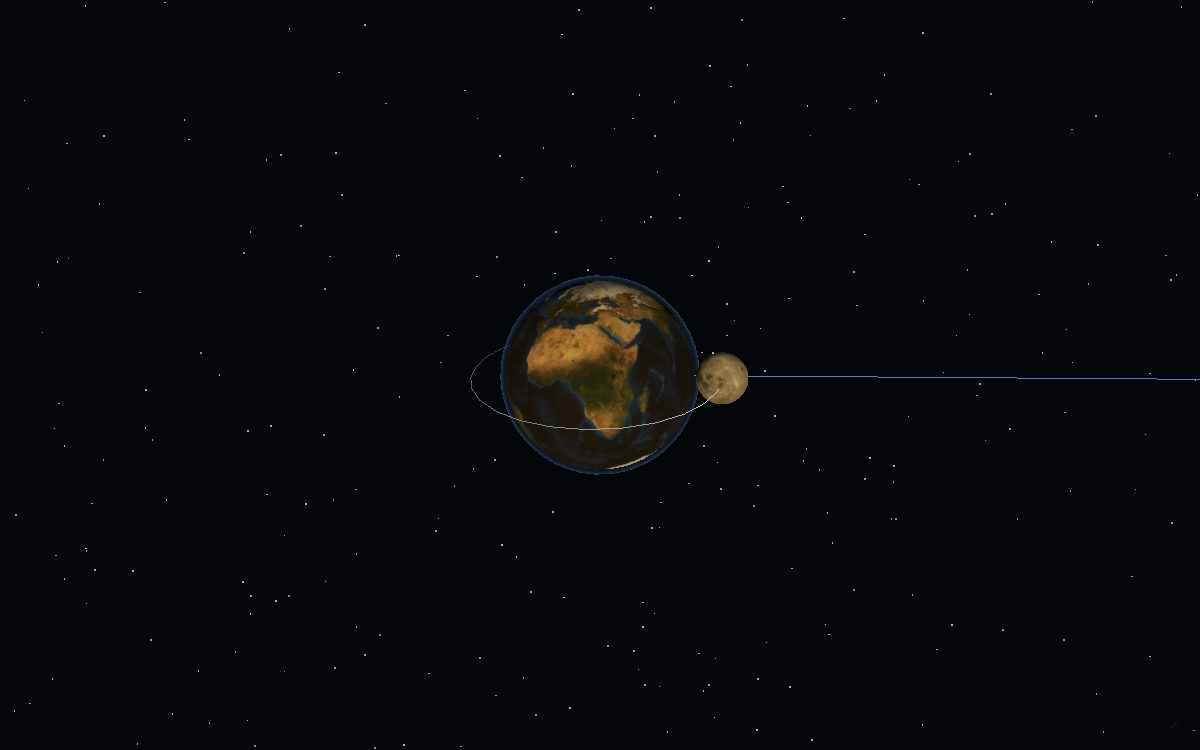
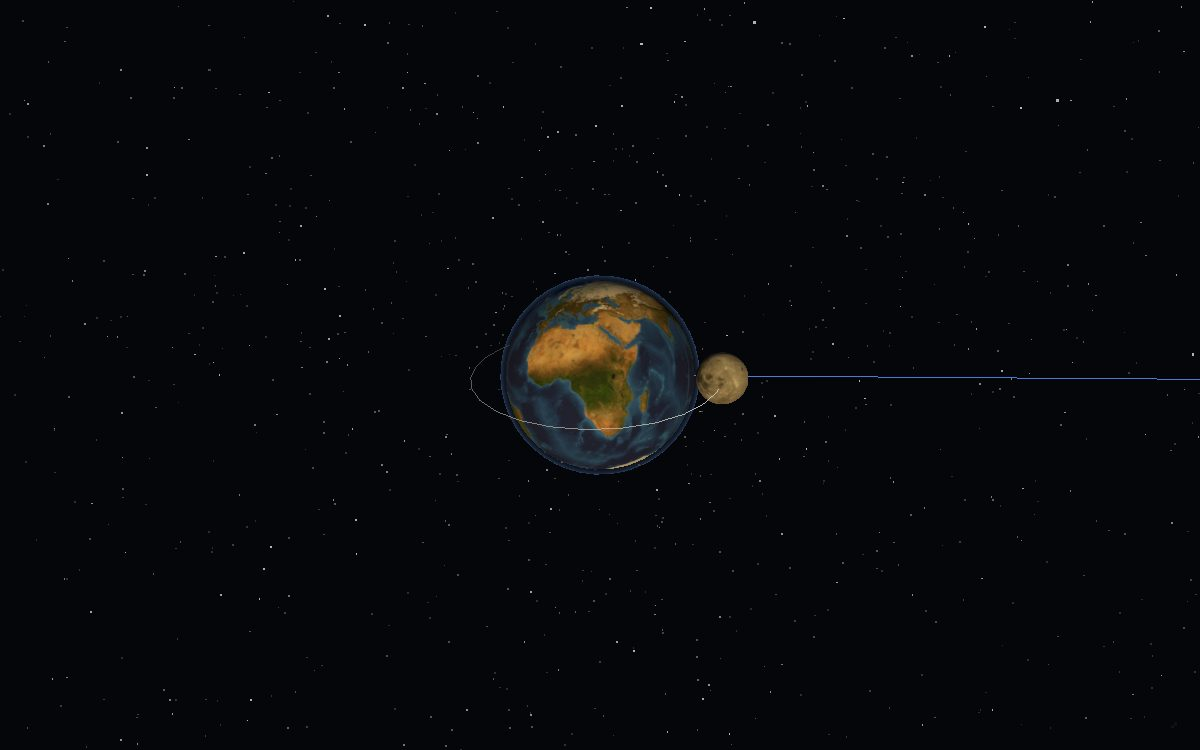
Grade the Earth map brighter and bluer; regenerate its mission cards
The BMNG source's bathymetry-shaded oceans sit near 0.1 luminance, which
the lighting chain (sun light, ACES tone mapping) renders near-black —
Earth read as a dull tan-and-black disc. Midtone and saturation lift
across the map, with an extra brightness/blue push masked to blue-dominant
dark pixels so land and snow stay natural.

Changed region(s): [[0.4008, 0.3987, 0.5858, 0.644]]

diff --git a/public/textures/real/SOURCES.md b/public/textures/real/SOURCES.md
@@ -9,7 +9,7 @@ listed per file.
 | --- | --- | --- |
 | `mercury.jpg` | NASA/JHUAPL/Carnegie, MESSENGER MDIS enhanced-color basemap ([PIA17386](https://images.nasa.gov/details/PIA17386)) | converted to grayscale luminance (the enhanced color is false-color mineralogy), faint warm tint |
 | `venus.jpg` | NASA/USGS, Magellan C3-MDIR colorized radar mosaic ([Astropedia](https://astrogeology.usgs.gov/search/map/venus_magellan_c3_mdir_colorized_global_mosaic_4641m)) | resize only — radar surface, not the visible cloud deck |
-| `earth.jpg` | NASA/GSFC, Blue Marble Next Generation w/ topography and bathymetry, Dec 2004 ([Visible Earth 73909](https://visibleearth.nasa.gov/images/73909)) | resize only |
+| `earth.jpg` | NASA/GSFC, Blue Marble Next Generation w/ topography and bathymetry, Dec 2004 ([Visible Earth 73909](https://visibleearth.nasa.gov/images/73909)) | midtone + saturation lift, extra brightness/blue push on ocean pixels — the source's dark bathymetry rendered near-black under the scene's lighting |
 | `moon.jpg` | NASA/GSFC/ASU, LROC WAC color mosaic ([SVS CGI Moon Kit](https://svs.gsfc.nasa.gov/4720/), `lroc_color_poles_4k.tif`) | resize only |
 | `mars.jpg` | NASA/USGS, Viking MDIM 2.1 colorized mosaic (via [Wikimedia Commons](https://commons.wikimedia.org/wiki/File:Mars_Viking_MDIM21_ClrMosaic_1km.jpg), PD USGS product) | glitched rows at the extreme poles clamped |
 | `ceres.jpg` | NASA/JPL-Caltech/UCLA/MPS/DLR/IDA, Dawn FC2 HAMO clear-filter global mosaic, equidistant cylindrical ([PDS SBN, DWNCHCFC2_2](https://sbnarchive.psi.edu/pds3/dawn/fc/DWNCHCFC2_2/EXTRAS/CE_HAMO_G_00N_180E_EQU_CLR.TIF)) | grayscale source, faint warm tint; polar bands keep the mosaic's baked-in low-sun shadows |
